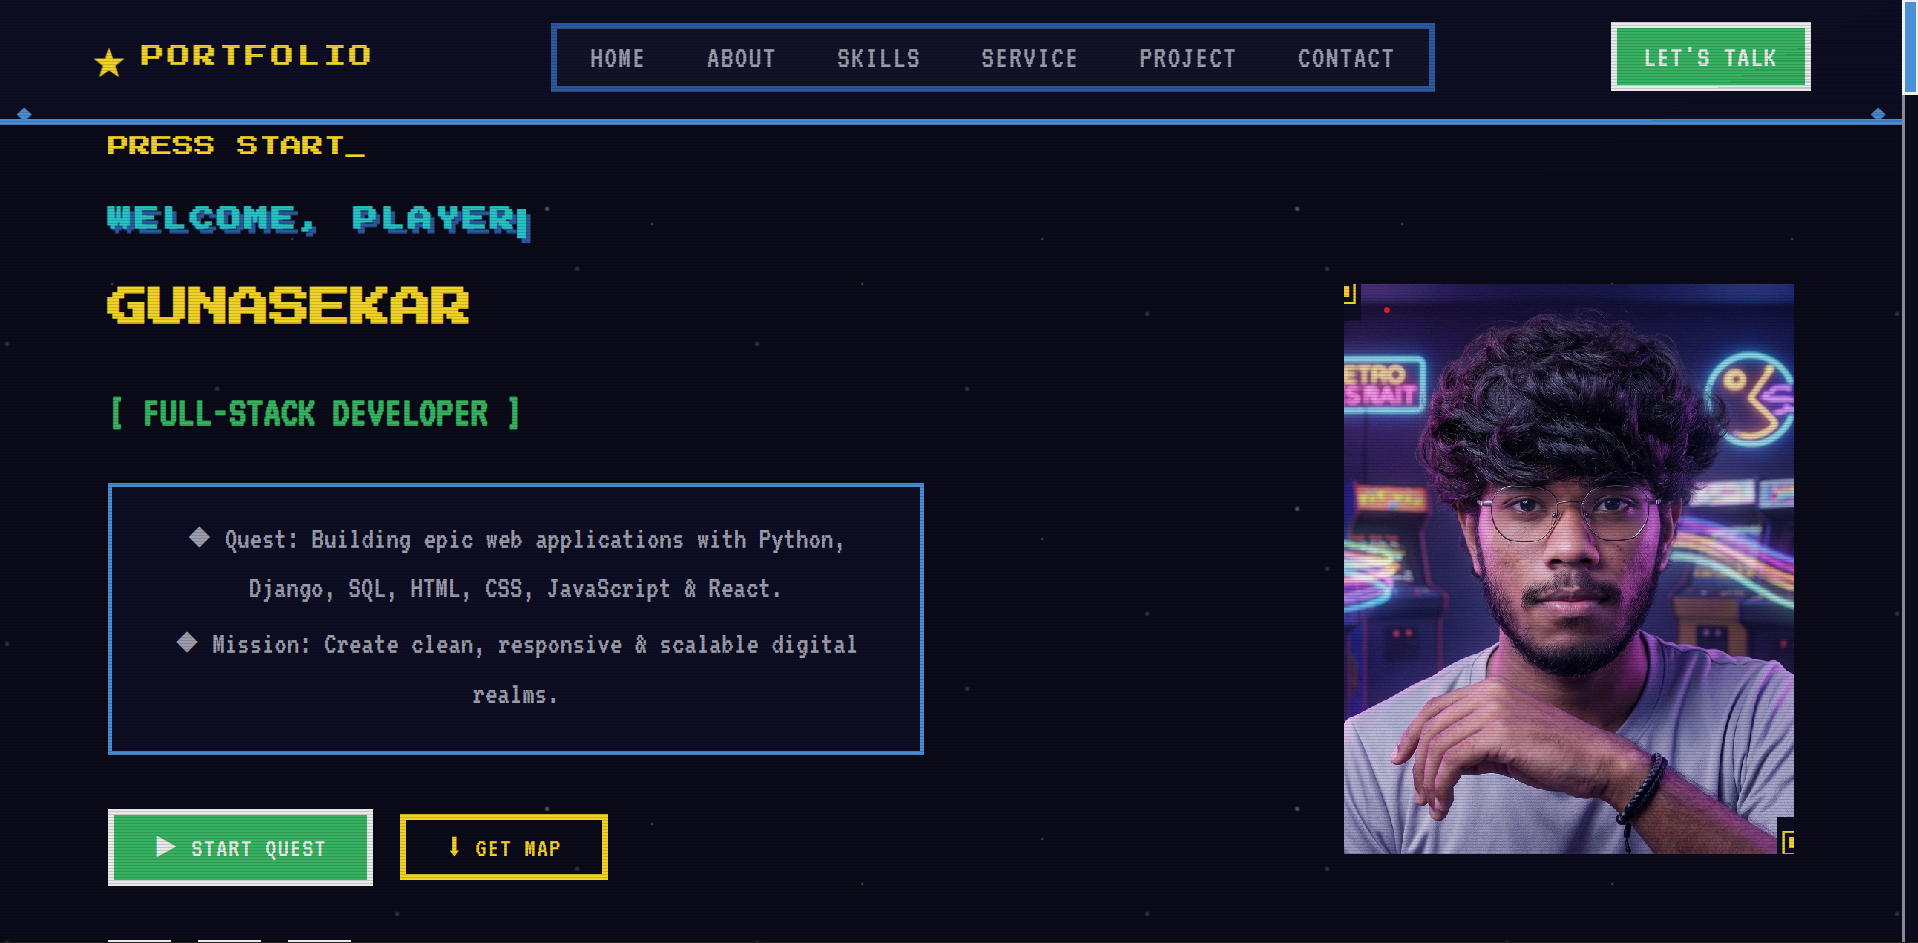
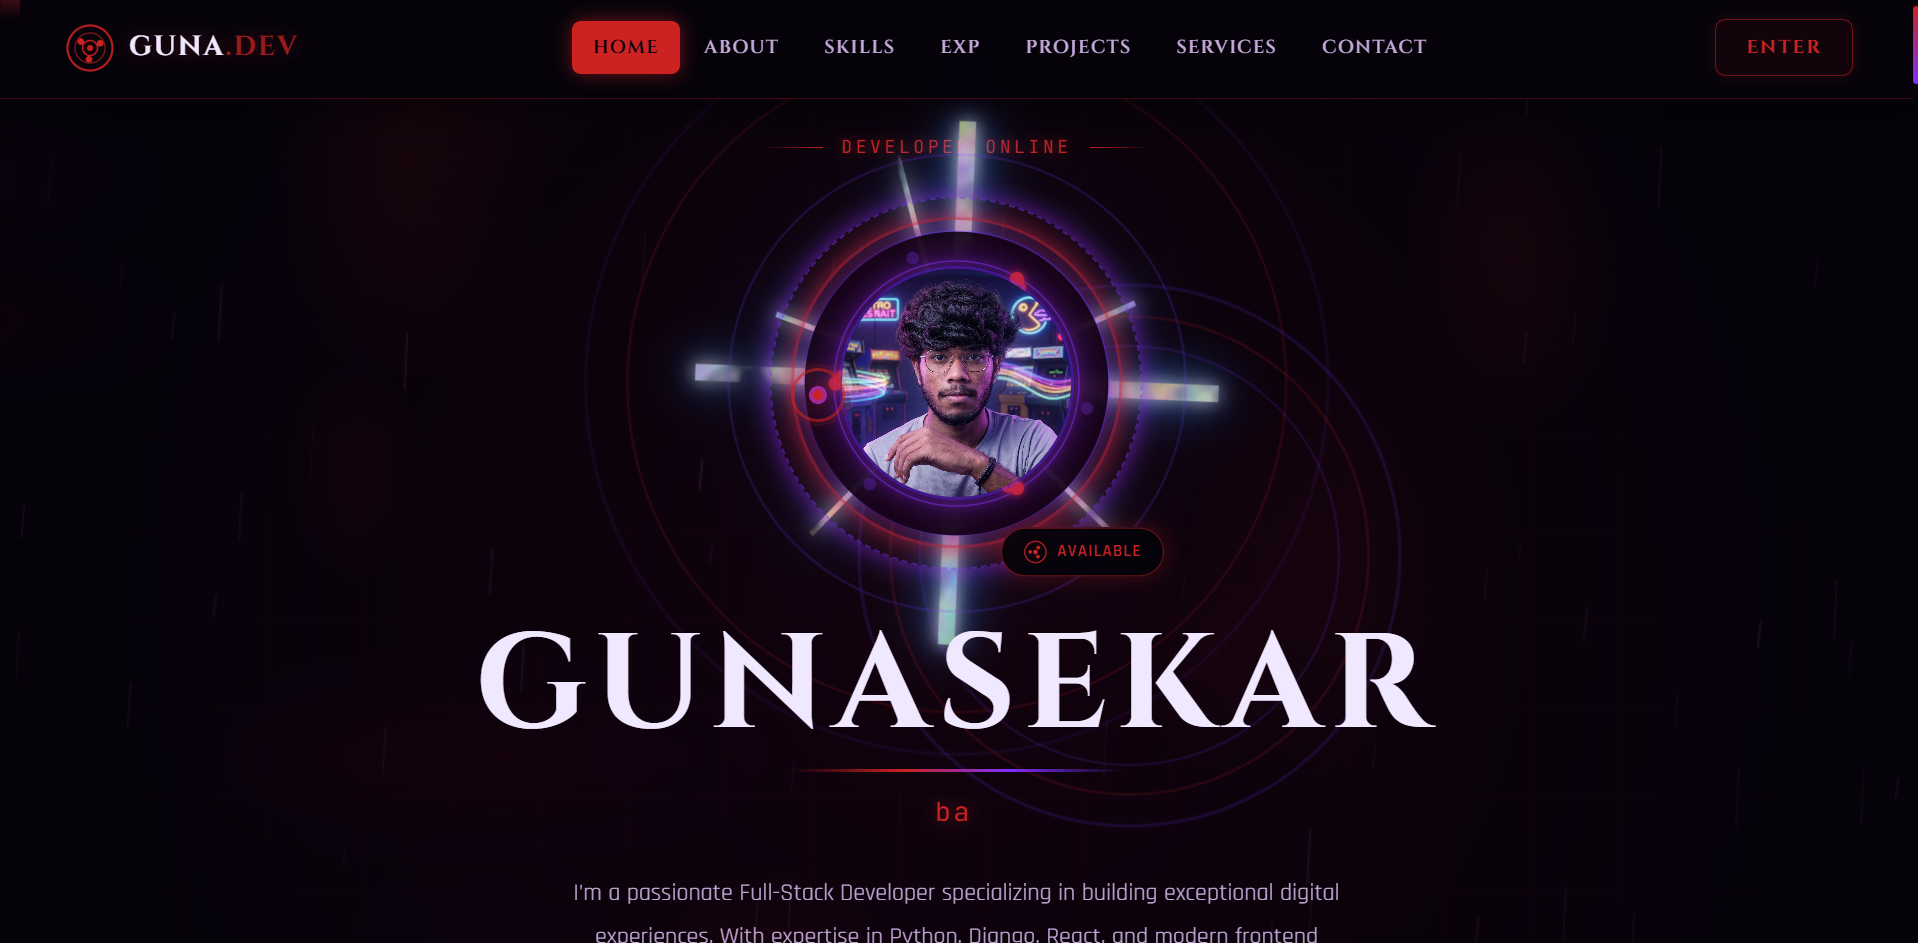
new url added

diff --git a/frontend/src/components/sections/ContactSection.jsx b/frontend/src/components/sections/ContactSection.jsx
@@ -35,8 +35,9 @@ const ContactSection = () => {
 
   const contactCards = [
     { icon: Mail, label: 'Email', value: contactInfo.email, href: `mailto:${contactInfo.email}` },
-    { icon: MapPin, label: 'Location', value: contactInfo.location },
+    { icon: MapPin, label: 'Location', value: contactInfo.location, href: contactInfo.mapsUrl },
     { icon: Link, label: 'LinkedIn', value: contactInfo.linkedin, href: `https://${contactInfo.linkedin}` },
+    { icon: Link, label: 'WhatsApp', value: contactInfo.whatsapp, href: `https://wa.me/${contactInfo.whatsapp.replace(/\D/g, '')}` },
   ];
 
   return (

diff --git a/frontend/src/data/portfolio.js b/frontend/src/data/portfolio.js
@@ -219,5 +219,7 @@ export const experience = [
 export const contactInfo = {
   email: 'gunasekar0223@gmail.com',
   location: 'Bengaluru, Karnataka, India',
+  mapsUrl: 'https://maps.google.com/?q=Bengaluru,+Karnataka,+India',
   linkedin: 'linkedin.com/in/gunasekar0223',
+  whatsapp: '+91 9486436037',
 };
